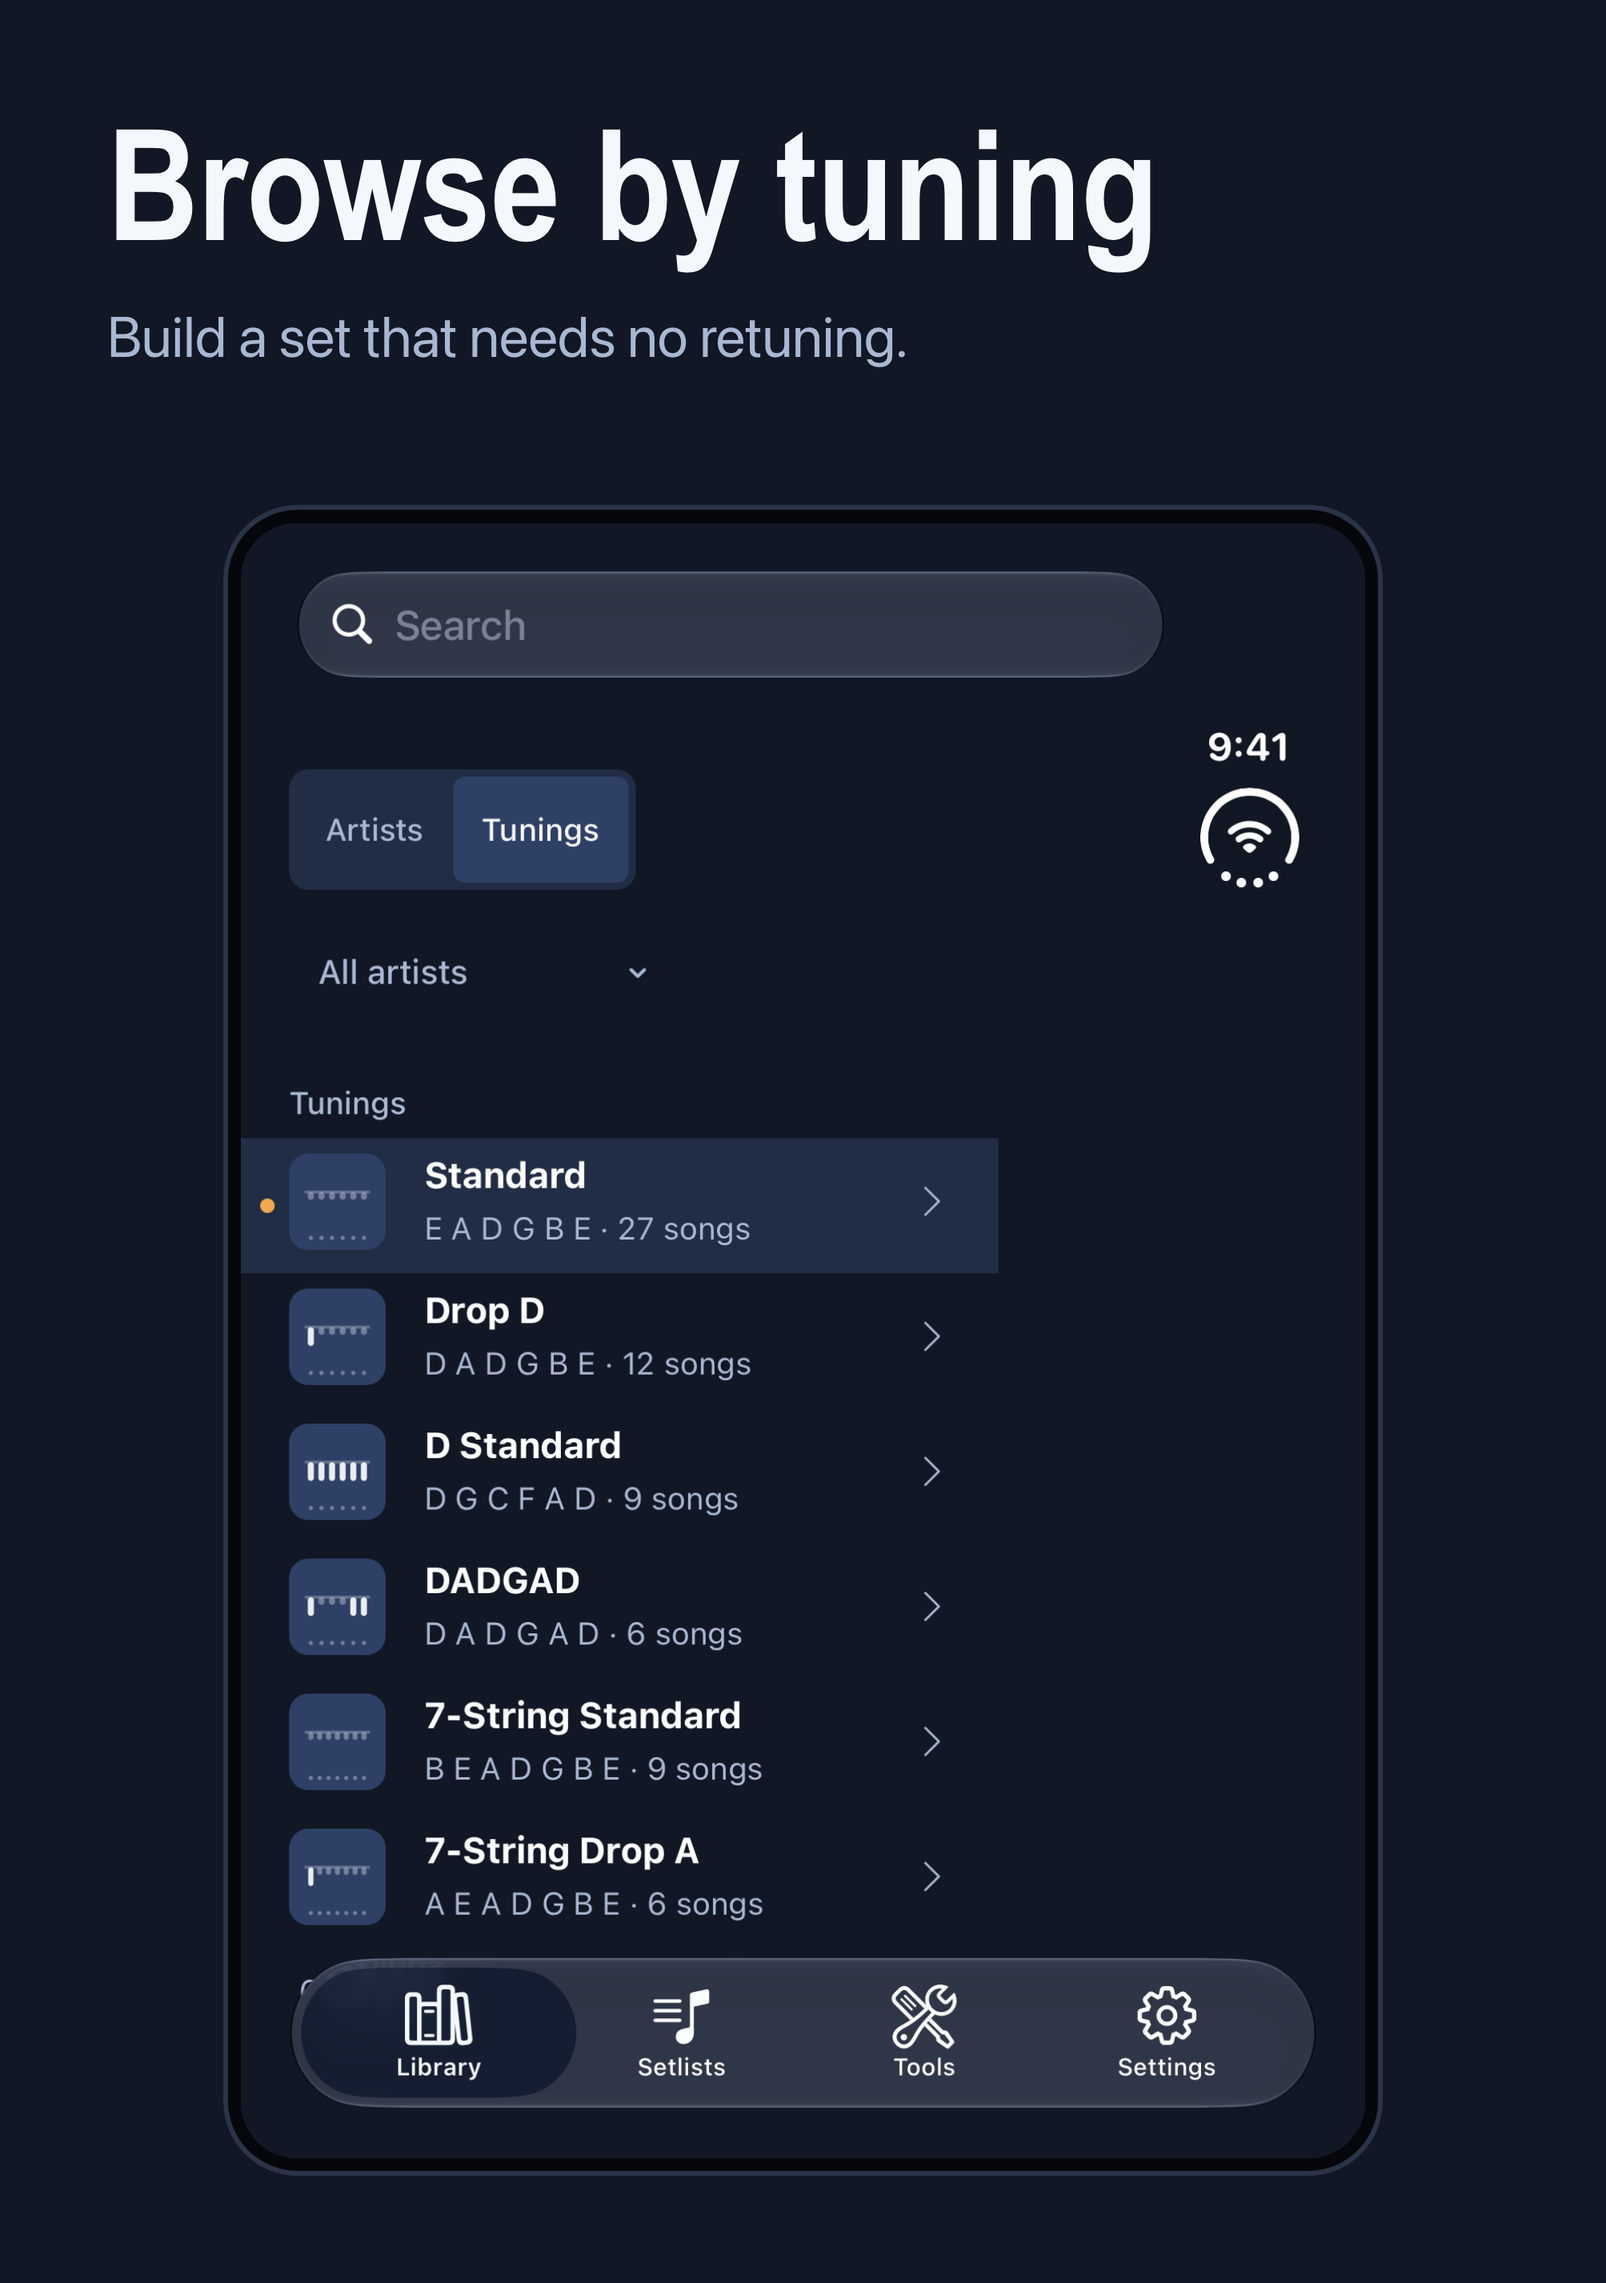
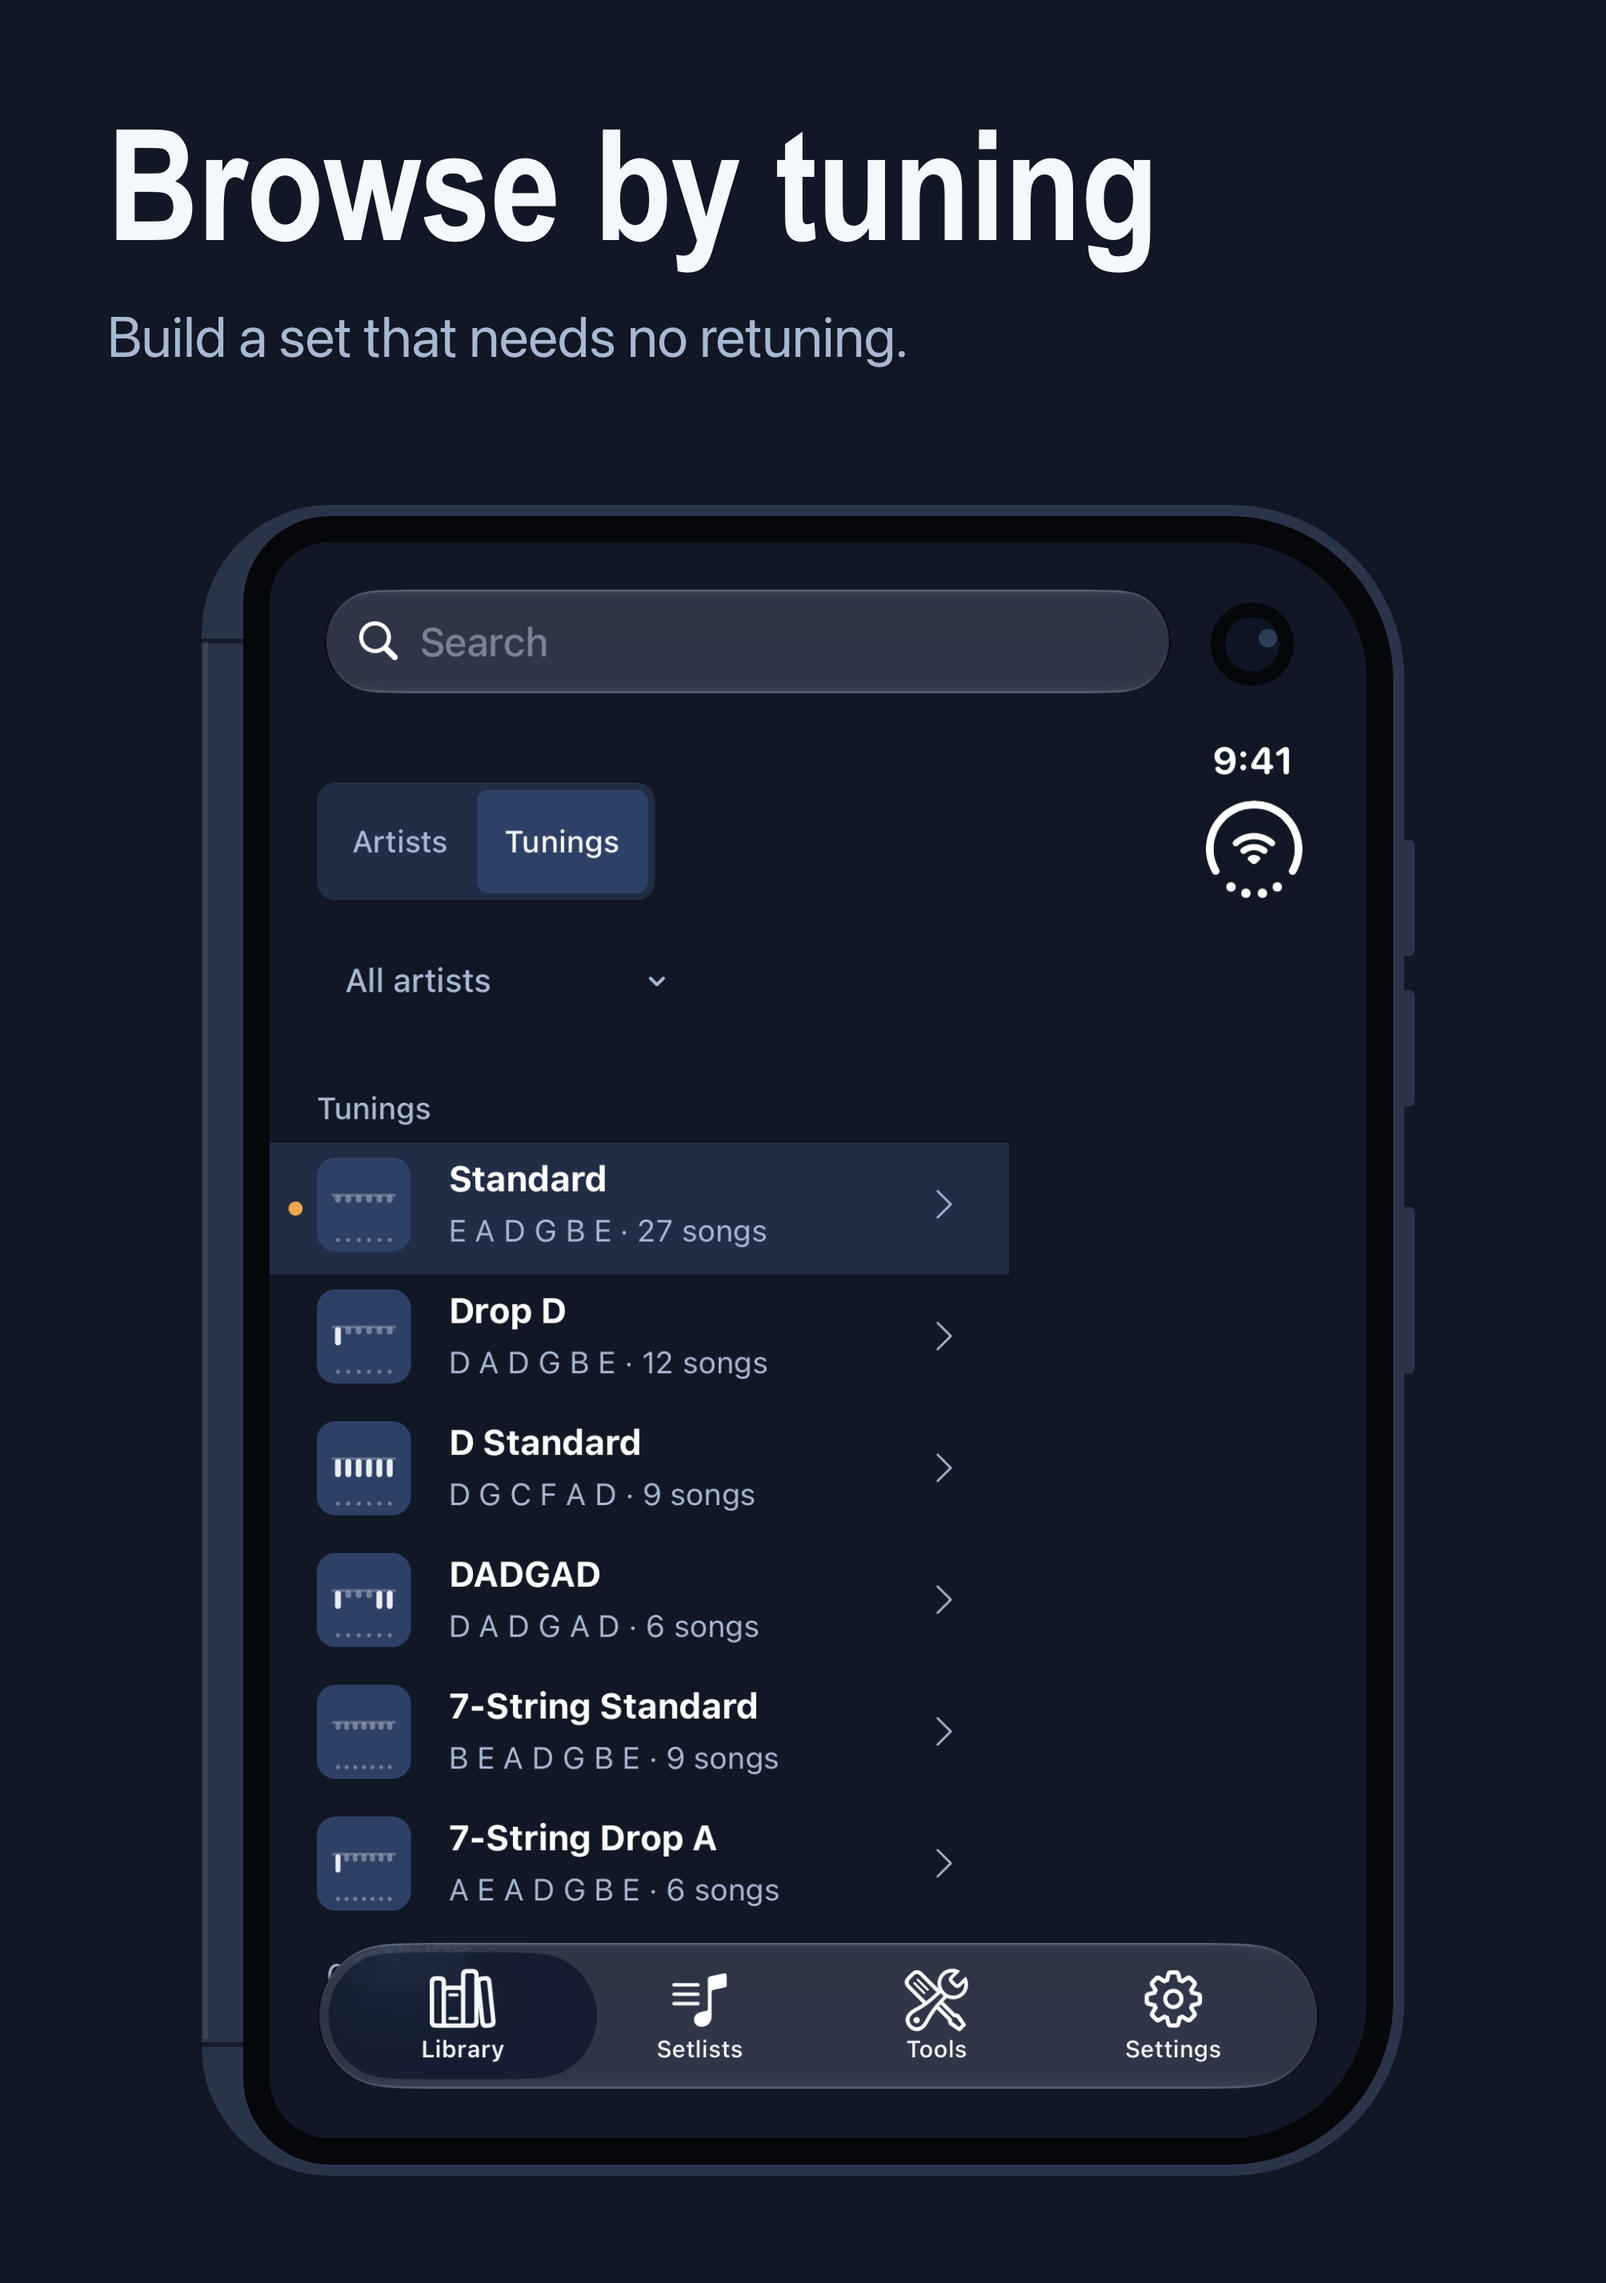
ci(appstore): notarize nothing on the Mac build and select Xcode 27 for iOS

Changed region(s): [[0.1236, 0.2184, 0.8959, 0.9671], [0.6178, 0.4991, 0.6487, 0.5615]]

diff --git a/support/tools/store_screenshots.py b/support/tools/store_screenshots.py
@@ -456,6 +456,16 @@ def device_layout(kind, a, avail_w, avail_h):
             sh = sw / a
             short = min(sw, sh)
             return dict(sw=sw, sh=sh, bz=(0.012 * short,) * 4, rim=0.004 * short, sr=0.05 * short, extra=0)
+    elif kind == "duo-closed":  # iPhone Duo's outer display: hinge spine on the left, rounded outer corners on the right
+        def build(sw):
+            sh = sw / a
+            return dict(
+                sw=sw, sh=sh,
+                bz=(0.024 * sw, 0.024 * sw, 0.024 * sw, 0.024 * sw),
+                rim=(0.038 * sw, 0.010 * sw, 0.010 * sw, 0.010 * sw),
+                sr=(0.055 * sw, 0.125 * sw, 0.125 * sw, 0.055 * sw),
+                extra=0
+            )
     elif kind == "laptop":
         def build(sw):
             sh = sw / a
@@ -466,8 +476,9 @@ def device_layout(kind, a, avail_w, avail_h):
             return dict(sw=sw, sh=sh, bz=(0.009 * sh,) * 4, rim=0.004 * sh, sr=0, extra=0.075 * sh)
 
     def total(d):
-        w = d["sw"] + d["bz"][0] + d["bz"][2] + 2 * d["rim"]
-        h = d["sh"] + d["bz"][1] + d["bz"][3] + 2 * d["rim"] + d["extra"]
+        rim_l, rim_t, rim_r, rim_b = d["rim"] if isinstance(d["rim"], tuple) else (d["rim"],) * 4
+        w = d["sw"] + d["bz"][0] + d["bz"][2] + rim_l + rim_r
+        h = d["sh"] + d["bz"][1] + d["bz"][3] + rim_t + rim_b + d["extra"]
         return (w * 1.07 if kind == "laptop" else w), h  # a laptop's base is wider than its lid
     lo, hi = 10.0, 20000.0
     for _ in range(40):
@@ -485,16 +496,28 @@ def _box(x, y, w, h, color, radius="0"):
 
 def device_html(kind, d, x, y, data_uri):
     """Flat device with its total box's top-left at x, y: rim, glass, the screenshot, then the device's own details."""
-    rim, (bl, bt, br, bb) = d["rim"], d["bz"]
+    rim_l, rim_t, rim_r, rim_b = d["rim"] if isinstance(d["rim"], tuple) else (d["rim"],) * 4
+    bl, bt, br, bb = d["bz"]
     sw, sh = d["sw"], d["sh"]
-    bw, bh = sw + bl + br + 2 * rim, sh + bt + bb + 2 * rim
+    bw, bh = sw + bl + br + rim_l + rim_r, sh + bt + bb + rim_t + rim_b
     tw, _ = d["total"]
     bx = x + (tw - bw) / 2  # centre the lid over a laptop's wider base
-    gr = d["sr"] + max(bl, bt)
-    sx, sy = bx + rim + bl, y + rim + bt
-    p = [_box(bx, y, bw, bh, RIM, f"{gr + rim:.1f}px"),
-         _box(bx + rim, y + rim, bw - 2 * rim, bh - 2 * rim, GLASS, f"{gr:.1f}px"),
-         f"<img src='{data_uri}' style='left:{sx:.1f}px;top:{sy:.1f}px;width:{sw:.1f}px;height:{sh:.1f}px;border-radius:{d['sr']:.1f}px'>"]
+    if isinstance(d["sr"], tuple):
+        sr_tl, sr_tr, sr_br, sr_bl = d["sr"]
+        gr_tl, gr_tr, gr_br, gr_bl = sr_tl + bl, sr_tr + br, sr_br + br, sr_bl + bl
+        rr_tl, rr_tr, rr_br, rr_bl = gr_tl + rim_l, gr_tr + rim_r, gr_br + rim_r, gr_bl + rim_l
+        sr_css = f"{sr_tl:.1f}px {sr_tr:.1f}px {sr_br:.1f}px {sr_bl:.1f}px"
+        gr_css = f"{gr_tl:.1f}px {gr_tr:.1f}px {gr_br:.1f}px {gr_bl:.1f}px"
+        rr_css = f"{rr_tl:.1f}px {rr_tr:.1f}px {rr_br:.1f}px {rr_bl:.1f}px"
+    else:
+        gr = d["sr"] + max(bl, bt)
+        sr_css = f"{d['sr']:.1f}px"
+        gr_css = f"{gr:.1f}px"
+        rr_css = f"{gr + rim_t:.1f}px"
+    sx, sy = bx + rim_l + bl, y + rim_t + bt
+    p = [_box(bx, y, bw, bh, RIM, rr_css),
+         _box(bx + rim_l, y + rim_t, bw - rim_l - rim_r, bh - rim_t - rim_b, GLASS, gr_css),
+         f"<img src='{data_uri}' style='left:{sx:.1f}px;top:{sy:.1f}px;width:{sw:.1f}px;height:{sh:.1f}px;border-radius:{sr_css}'>"]
     if kind == "phone":  # punch-hole camera, power and volume keys
         c = 0.034 * sw
         p.append(_box(sx + (sw - c) / 2, sy + 0.022 * sw, c, c, GLASS, "50%"))
@@ -508,6 +531,21 @@ def device_html(kind, d, x, y, data_uri):
         for ky, kh in ((0.17, 0.04), (0.24, 0.07), (0.33, 0.07)):
             p.append(_box(bx - 0.8 * kw, y + ky * bh, kw, kh * bh, RIM, f"{kw / 2:.1f}px"))
         p.append(_box(bx + bw - 0.2 * kw, y + 0.27 * bh, kw, 0.11 * bh, RIM, f"{kw / 2:.1f}px"))
+    elif kind == "duo-closed":  # hinge spine on the left, top-right punch-hole camera aligned with the status cluster
+        p.append(_box(bx, y + 0.08 * bh, rim_l, max(2.0, 0.003 * bh), "#141c2c"))
+        p.append(_box(bx, y + bh - 0.08 * bh, rim_l, max(2.0, 0.003 * bh), "#141c2c"))
+        p.append(_box(bx + 2, y + 0.08 * bh + 4, max(2.0, 0.004 * sw), bh * 0.84 - 8, "rgba(255,255,255,0.08)"))
+        cd = 0.076 * sw
+        cx = sx + 0.8956 * sw
+        cy = sy + 0.064 * sh
+        p.append(_box(cx - cd / 2, cy - cd / 2, cd, cd, GLASS, "50%"))
+        ld = cd * 0.65
+        p.append(_box(cx - ld / 2, cy - ld / 2, ld, ld, "#0d1522", "50%"))
+        gd = cd * 0.22
+        p.append(_box(cx + ld * 0.12, cy - ld * 0.28, gd, gd, "#2d3d58", "50%"))
+        kw = 0.012 * sw
+        for ky, kh in ((0.20, 0.07), (0.29, 0.07), (0.42, 0.10)):
+            p.append(_box(bx + bw - 0.2 * kw, y + ky * bh, kw, kh * bh, RIM, f"{kw / 2:.1f}px"))
     elif kind == "ipad":  # the front camera sits on the long edge, so only a landscape iPad shows it
         if sw > sh:
             c = 0.012 * sh

diff --git a/support/tools/simulator_screenshots.py b/support/tools/simulator_screenshots.py
@@ -648,7 +648,8 @@ def capture(name, args):
                     final = out / f"{n:02d}-{sid}.png"
                     from PIL import Image
                     size = (2853, 2007) if pose == "book" else (2007, 2853)
-                    compose(frame, raw, final, size, headline, subtitle, None if args.no_bezel else dev["bezel"])
+                    bezel = "duo-closed" if pose == "closed" else dev["bezel"]
+                    compose(frame, raw, final, size, headline, subtitle, None if args.no_bezel else bezel)
                     print(f"  wrote {final}", flush=True)
             if name != "duo":
                 from PIL import Image
@@ -777,7 +778,8 @@ def capture(name, args):
             if fold and not args.no_bezel:
                 (compose_laptop if pose == "tabletop" else compose_book)(frame, raw, final, size, headline, subtitle, fold)
             else:
-                compose(frame, raw, final, size, headline, subtitle, None if args.no_bezel else dev["bezel"])
+                bezel = "duo-closed" if (name == "duo" and pose == "closed") else dev["bezel"]
+                compose(frame, raw, final, size, headline, subtitle, None if args.no_bezel else bezel)
             print(f"  wrote {final}", flush=True)
         browser.close()
     if udid:
